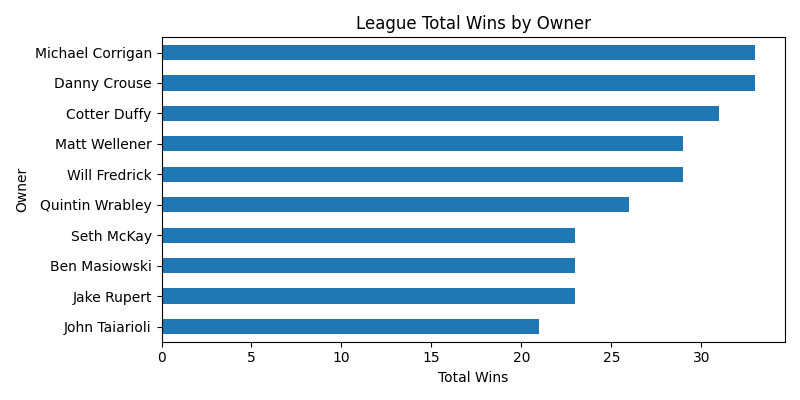
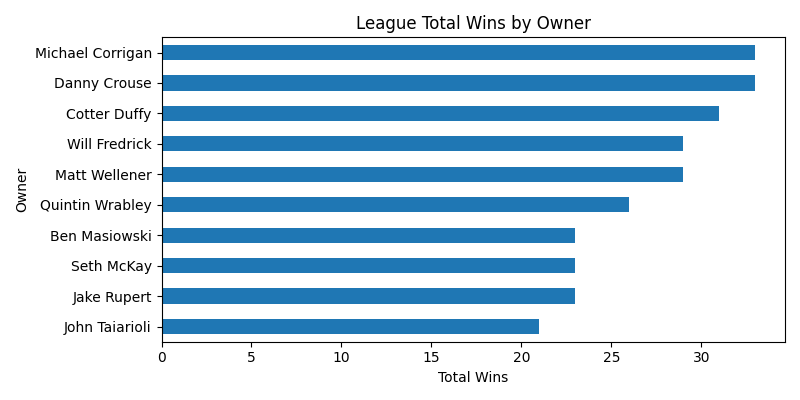
e

diff --git a/Project/code/templates/stats.html b/Project/code/templates/stats.html
@@ -25,11 +25,14 @@
   <div class="container">
 
     {% if owner_cards %}
-      <div class="row row-cols-1 row-cols-md-2 row-cols-lg-3 g-4">
+      <div class="row justify-content-center row-cols-1 row-cols-md-2 row-cols-lg-3 g-4">
         {% for owner in owner_cards %}
           <div class="col">
             <div class="card border-dark h-100">
-              <div class="card-header bg-dark text-white text-center">
+              <div
+                class="card-header text-white text-center"
+                style="background-color: {{ owner.color }};"
+              >
                 <h5 class="mb-0">{{ owner.owner }}</h5>
               </div>
               <div class="card-body">
@@ -83,7 +86,7 @@
     {% endif %}
 
     {% if plot_url %}
-      <div class="card my-5">
+      <div class="card my-5 mx-auto" style="max-width: 600px;">
         <div class="card-header bg-secondary text-white">
           <h5 class="text-center">Total Wins by Owner</h5>
         </div>
@@ -91,7 +94,7 @@
           <img
             src="{{ plot_url }}"
             alt="League Total Wins Chart"
-            class="img-fluid"
+            class="img-fluid d-block mx-auto"
           >
         </div>
       </div>

diff --git a/Project/code/server.py b/Project/code/server.py
@@ -58,15 +58,15 @@ Browns = "Cleveland Browns"
 
 player_teams = {
     "Cotter Duffy": [Eagles, Cardinals, Panthers],
-    "John Taiarioli": [Bengals, Colts, Jaguars],
-    "Danny Crouse": [Dolphins, Chargers, Commanders],
     "Jake Rupert": [Niners, Vikings, Titans],
-    "Ben Masiowski": [Texans, Cowboys, Saints],
-    "Michael Corrigan": [Chiefs, Bears, Rams],
-    "Will Fredrick": [Lions, Steelers, Raiders],
     "Seth McKay": [Jets, Falcons, Seahawks],
+    "John Taiarioli": [Bengals, Colts, Jaguars],
+    "Ben Masiowski": [Texans, Cowboys, Saints],
     "Matt Wellener": [Bills, Packers, Giants],
+    "Danny Crouse": [Dolphins, Chargers, Commanders],
+    "Michael Corrigan": [Chiefs, Bears, Rams],
     "Quintin Wrabley": [Ravens, Buccaneers, Browns],
+    "Will Fredrick": [Lions, Steelers, Raiders],
 }
 
 
@@ -75,6 +75,23 @@ player_teams = {
 # =============================
 df = pd.Series(player_teams).reset_index()
 df.columns = ["Owner", "teams"]
+
+# map each owner to a color
+owner_colors = {
+    "Cotter Duffy":    "#3A8FB7",
+    "Jake Rupert":     "#E76F51",
+    "Seth McKay":      "#2A9D8F",
+    "John Taiarioli":  "#F4A261",
+    "Ben Masiowski":   "#264653",
+    "Matt Wellener":   "#8ECAE6",
+    "Danny Crouse":    "#E9C46A",
+    "Michael Corrigan":"#006D77",
+    "Quintin Wrabley": "#FFB4A2",
+    "Will Fredrick":   "#8338EC",
+}
+
+# add the new column (as the third column):
+df.insert(2, "color", df["Owner"].map(owner_colors))
 
 
 # class for getting data from the client rpi
@@ -134,18 +151,28 @@ async def stats_view(request: Request):
         plot_url = None
 
     # Build card-based data structure
+    VIDRIS_COLORS = [
+    "#648FFF",  # blue
+    "#785EF0",  # purple
+    "#DC267F",  # pink
+    "#FE6100",  # orange
+    "#FFB000",  # yellow
+    ]
+
     owner_cards = []
-    for row in df.to_dict(orient="records"):
+    for idx, row in enumerate(df.to_dict(orient="records")):
         owner_cards.append({
             "owner": row["Owner"],
             "teams": [
-                {"name": row.get("team_1", ""), "wins": row.get("wins_1", 0), "losses": row.get("losses_1", 0), "pct": row.get("pct_1", 0.0)},
-                {"name": row.get("team_2", ""), "wins": row.get("wins_2", 0), "losses": row.get("losses_2", 0), "pct": row.get("pct_2", 0.0)},
-                {"name": row.get("team_3", ""), "wins": row.get("wins_3", 0), "losses": row.get("losses_3", 0), "pct": row.get("pct_3", 0.0)},
+                { "name": row.get("team_1",""), "wins": row.get("wins_1",0), "losses": row.get("losses_1",0), "pct": row.get("pct_1",0.0) },
+                { "name": row.get("team_2",""), "wins": row.get("wins_2",0), "losses": row.get("losses_2",0), "pct": row.get("pct_2",0.0) },
+                { "name": row.get("team_3",""), "wins": row.get("wins_3",0), "losses": row.get("losses_3",0), "pct": row.get("pct_3",0.0) },
             ],
-            "total_wins": row.get("total_wins", 0),
-            "total_losses": row.get("total_losses", 0),
-            "total_pct": row.get("total_pct", 0.0),
+            "total_wins":   row.get("total_wins",0),
+            "total_losses": row.get("total_losses",0),
+            "total_pct":    row.get("total_pct",0.0),
+            # 2) pick a color by cycling through the palette
+            "color": row.get("color","")
         })
 
     return templates.TemplateResponse(

diff --git a/Project/code/push.py b/Project/code/push.py
@@ -1,6 +1,7 @@
 import requests, time, random
 import pandas as pd
 import numpy as np
+import sys
 
 
 # === Configuration ===
@@ -10,7 +11,7 @@ import numpy as np
 # my wifi at home
 URL = "http://192.168.1.16:8000"
 # using ngrok
-URL = "https://4eb5-2603-8000-b9f0-c920-2591-f9a3-7cc5-5c63.ngrok-free.app"
+URL = "https://5aed-2603-8000-b9f0-c920-2591-f9a3-7cc5-5c63.ngrok-free.app/"
 
 
 
@@ -175,7 +176,7 @@ def champ_probs(all_team_ps, owners):
 # === Main execution ===
 if __name__ == "__main__":
     try:
-        df = update_stats("2023")
+        df = update_stats(*sys.argv[1:2])
         print("New ESPN data received!")
 
 
